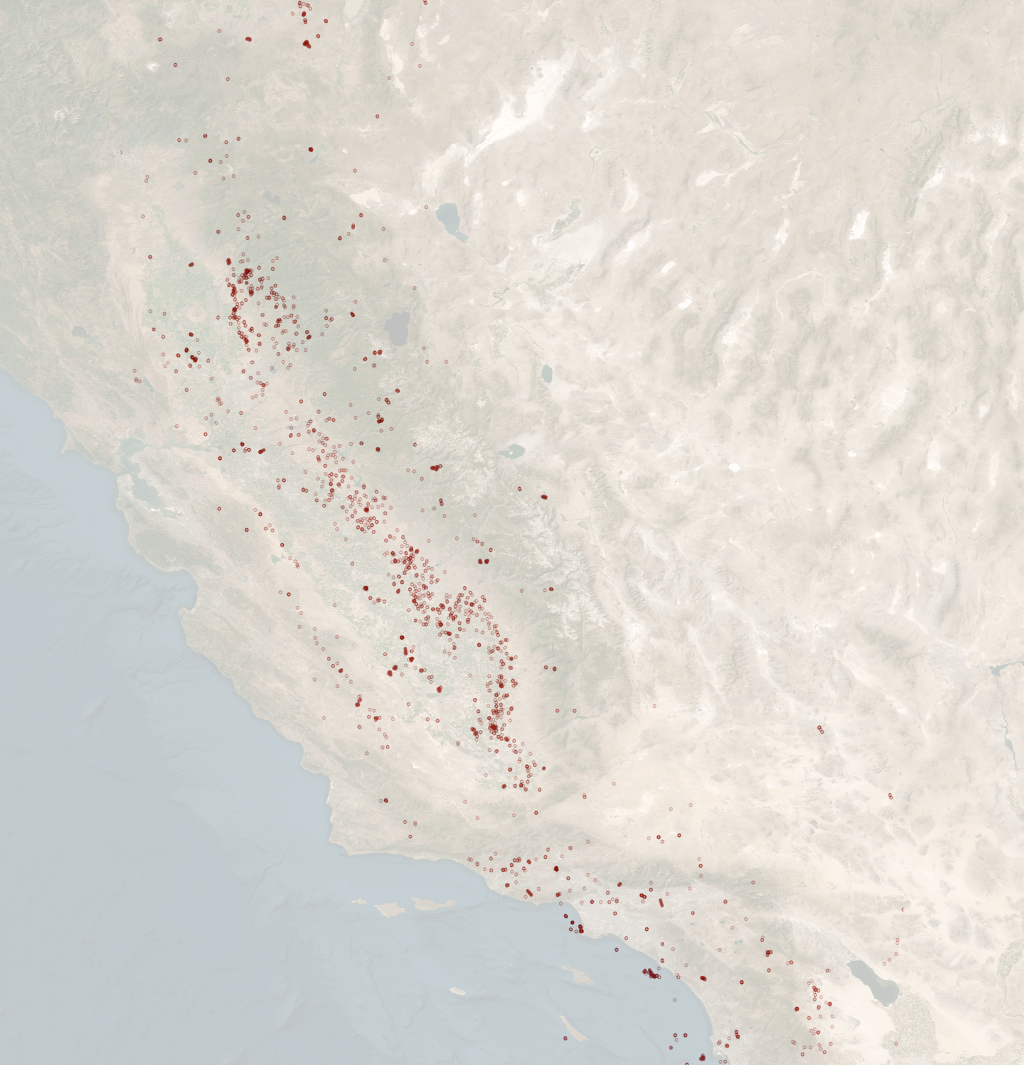
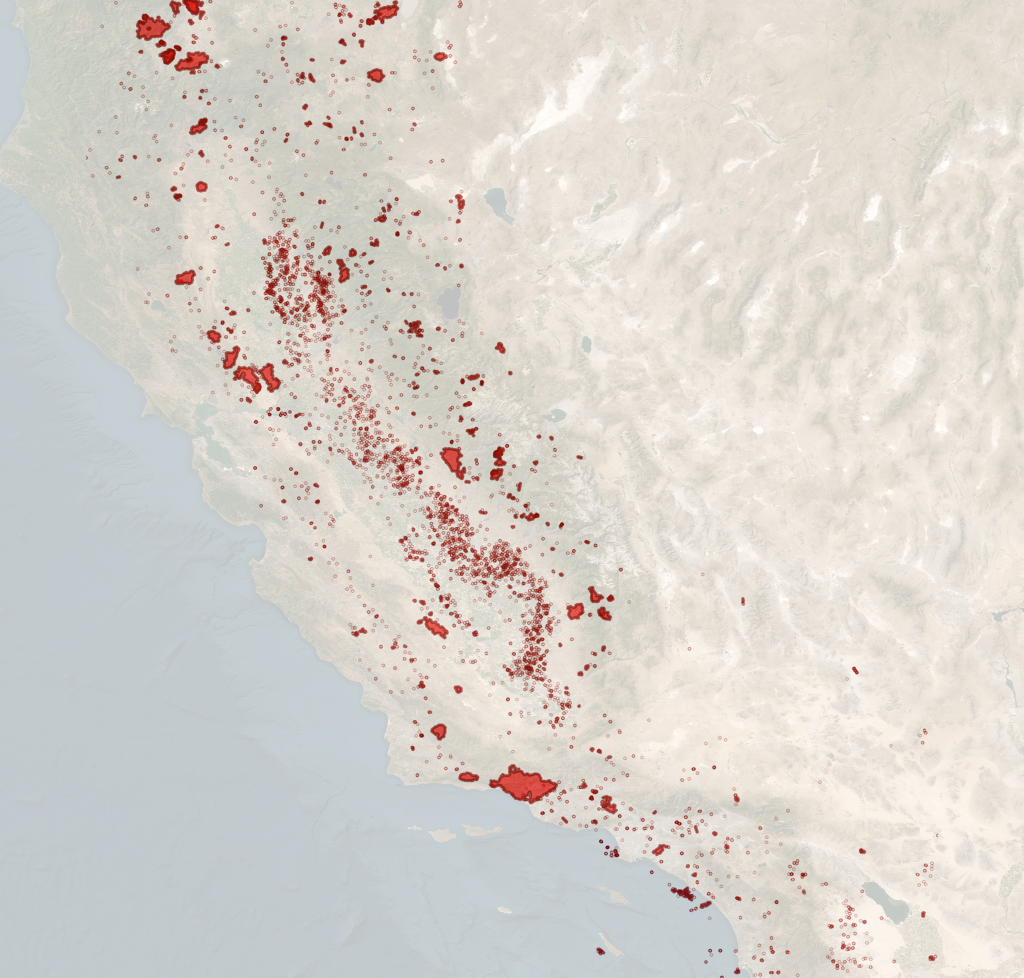
Show static overlay on frontend

diff --git a/frontend/src/components/Sidebar.js b/frontend/src/components/Sidebar.js
@@ -6,7 +6,11 @@ export default function Sidebar({ collapsed, setCollapsed }) {
         <div className={`flex flex-col items-end px-4 py-6 transition-all duration-300 mr-2`}>
             <Button 
                 type="text" 
-                icon={collapsed ? <MenuUnfoldOutlined /> : <MenuFoldOutlined />} 
+                    icon={
+                    <span style={{ fontSize: 24 }}>
+                    {collapsed ? <MenuUnfoldOutlined /> : <MenuFoldOutlined />}
+                    </span>
+                }
                 onClick={() => setCollapsed(!collapsed)} 
             />
             <div className={`px-2 gap-y-6 flex flex-col items-start ${collapsed ? "opacity-0" : "opacity-100"} transition-all duration-300 mt-4 w-full`}>
@@ -25,6 +29,11 @@ export default function Sidebar({ collapsed, setCollapsed }) {
                 <div>
                     <h2 className="text-2xl"><strong>Summary</strong></h2>
                     <p className="text-lg">Lorem ipsum dolor sit amet, consectetur adipiscing elit. Aenean porttitor magna eget tempus tristique. Suspendisse commodo arcu lacus, id iaculis elit aliquam non. Sed interdum dignissim turpis, vitae cursus neque volutpat eget. Aliquam vitae efficitur mauris. Integer ullamcorper, diam vitae pharetra tristique, lorem lorem lacinia diam, a cursus libero metus a felis. Sed luctus venenatis pellentesque. Donec sed nunc eget nunc placerat lobortis. Donec fringilla leo dolor, quis faucibus enim imperdiet sed. In fermentum libero ipsum, eget convallis eros gravida et. Aliquam ex massa, bibendum non rutrum vel, posuere mollis ante. Nam congue laoreet dictum. Nulla quis neque imperdiet, fringilla lacus ac, iaculis mi. Nunc laoreet lacinia feugiat. Aliquam nec rhoncus nisi, a malesuada velit.</p>
+                    <img
+                    src="http://127.0.0.1:5000/satellite"
+                    alt="Satellite view"
+                    className="w-full h-auto"
+                    />
                 </div>
             </div>
         </div>

diff --git a/backend/app.py b/backend/app.py
@@ -41,7 +41,7 @@ def getSatelliteImage():
     if request.method == 'GET':
 
         # get year from the request
-        year = 1
+        year = 2017
 
         # base imagee
         coords = get_coords(year)
@@ -51,18 +51,12 @@ def getSatelliteImage():
             min_lat=coords[1],
             max_lon=coords[2],
             max_lat=coords[3],
-            out_file=f"Datasets/satellite/{year}.png"
+            out_file=f"Datasets/satellites/{year}.png"
         )
 
         # overlayed image path
         overlay_path = overlay_image(year, Path(out_file))
-
-        # overlay image path
-        data = {
-            "overlay_path": str(overlay_path),
-            "width_px": width_px,
-            "height_px": height_px
-        }
+        print(overlay_path)
 
         return send_file(overlay_path, mimetype='image/png')
 

diff --git a/backend/image_editing/image.py b/backend/image_editing/image.py
@@ -50,6 +50,8 @@ def apply_transparency(image_1_path: Path, image_2_path: Path, year: int, alpha:
     output_name = f"{year}_overlay.png"
     
     imgEditor = ImageEditor(image_1_path, image_2_path)
+    print(image_1_path)
+    print(image_2_path)
     imgEditor.transparency(alpha=alpha, output_name=output_name, output_dir=output_dir)
 
 if __name__ == "__main__":

diff --git a/backend/display_data/display.py b/backend/display_data/display.py
@@ -28,7 +28,7 @@ def get_image_path(year: int) -> Path:
     return output_dir / f"{year}.png"
 
 def get_satellite_path(year: int) -> Path:
-    output_dir = Path("Datasets/satellite")
+    output_dir = Path("Datasets/satellites")
     return output_dir / f"{year}.png"
 
 def save_image(year: int):
